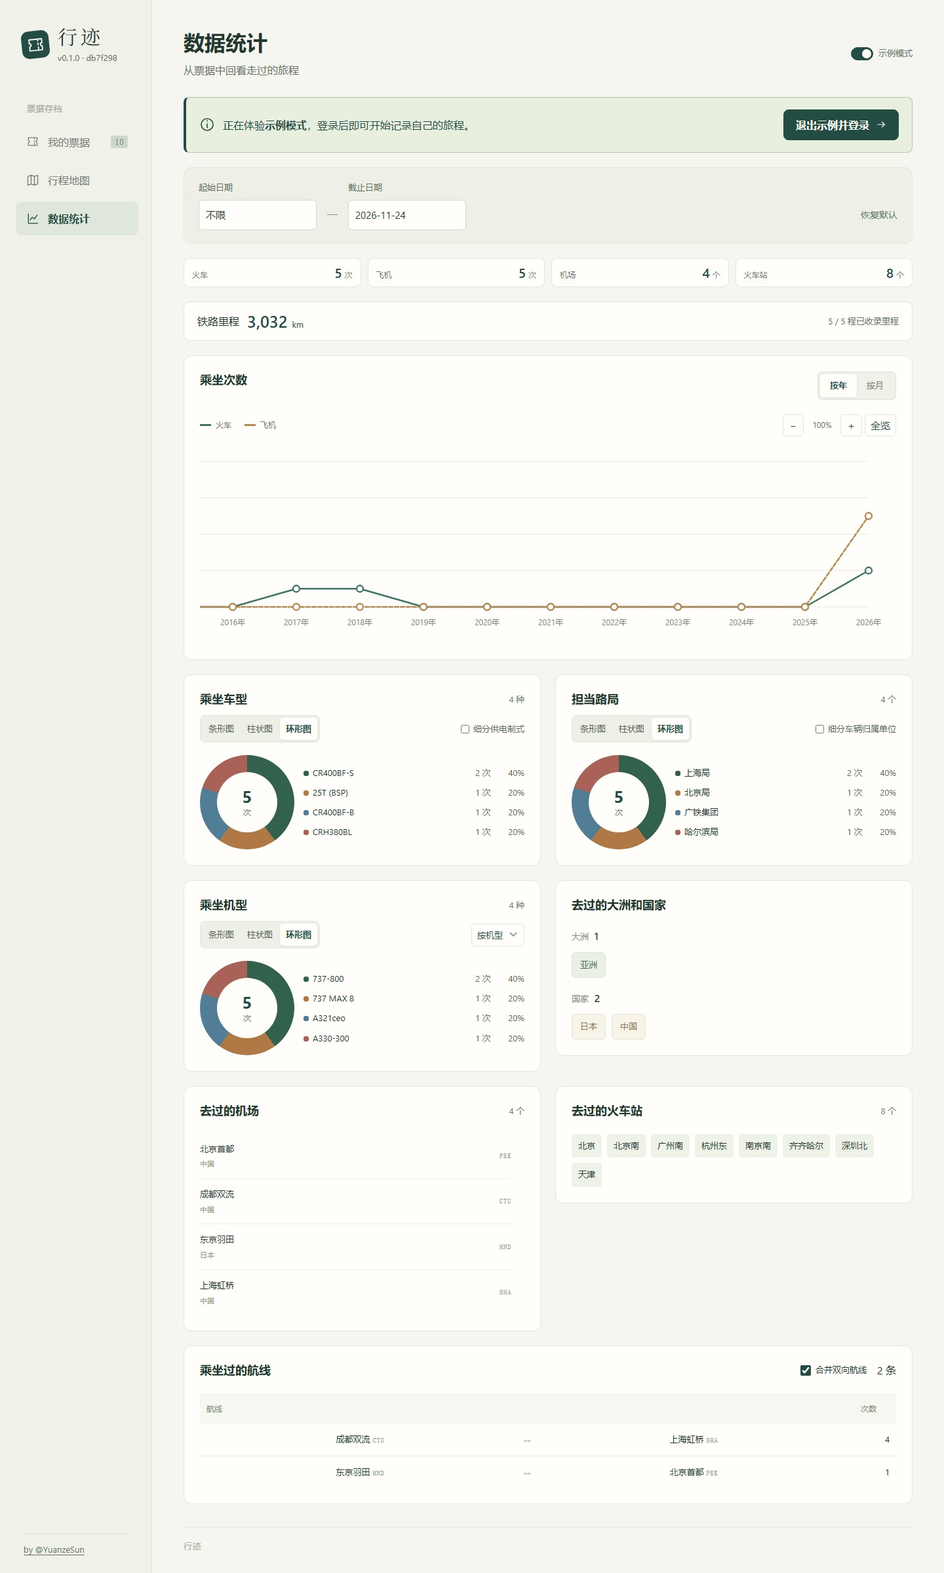
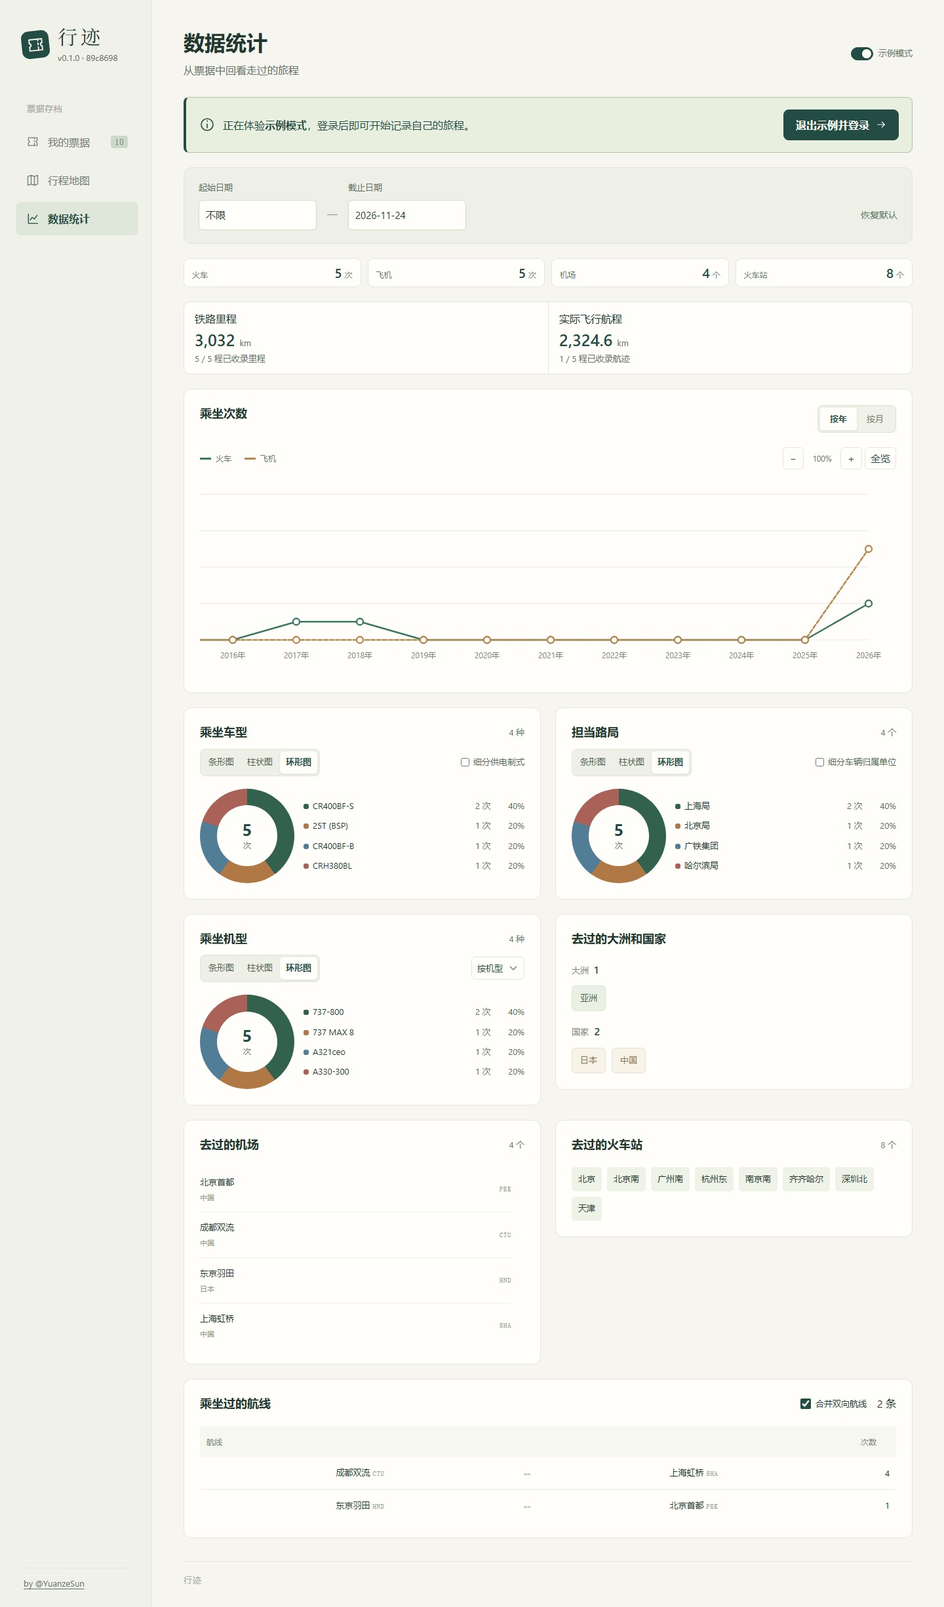
Summarize flown distance from saved flight tracks

diff --git a/src/styles.css b/src/styles.css
@@ -403,6 +403,11 @@ input::-webkit-datetime-edit-fields-wrapper{padding:0}
 .statistics-summary>div>span{font-size:12px;color:#6b796b;white-space:nowrap}
 .statistics-summary strong{display:inline-flex;align-items:baseline;gap:4px;font-size:20px;font-weight:600;line-height:1.3;color:var(--green);font-variant-numeric:tabular-nums;white-space:nowrap}
 .statistics-summary small{font-size:12px;font-weight:400;color:#7a8573}
+.statistics-mileage{display:grid;grid-template-columns:repeat(2,minmax(0,1fr));border:1px solid var(--line);border-radius:10px;background:var(--surface)}
+.statistics-mileage>div{display:grid;grid-template-columns:minmax(0,1fr);align-content:start;gap:4px;padding:12px 16px}
+.statistics-mileage>div+div{border-inline-start:1px solid var(--line)}
+.statistics-mileage strong{font-size:clamp(18px,4.8vw,25px);line-height:1.2;font-weight:600;color:var(--green);font-variant-numeric:tabular-nums;overflow-wrap:anywhere}
+.statistics-mileage small,.statistics-mileage>div>span:last-child{font-size:13px;font-weight:400;color:var(--muted)}
 .statistics-panel{background:var(--surface);border:1px solid var(--line);border-radius:12px;padding:24px;min-width:0}
 .statistics-panel>header{display:flex;justify-content:space-between;align-items:flex-start;flex-wrap:wrap;gap:16px;margin-bottom:22px}
 .statistics-panel h2{font-size:18px;font-weight:600;line-height:1.4;margin:0}
@@ -563,7 +568,7 @@ select:not([multiple]){-webkit-appearance:none;appearance:none;min-width:0;max-w
 .archive-selection-bar{display:flex;align-items:center;gap:12px;flex-wrap:wrap;margin:0 0 18px;padding:10px 12px;border:1px solid var(--line);border-radius:8px;background:#eff2e9}.archive-select-all{display:flex;align-items:center;gap:8px;cursor:pointer;min-height:32px}.archive-select-all input,.card-select input{width:18px;height:18px;margin:0;accent-color:var(--green)}.archive-selection-count{font-size:13px;color:var(--muted)}.archive-selection-actions{display:flex;align-items:center;gap:8px;flex-wrap:wrap;margin-left:auto}.archive-selection-actions .button{min-height:36px;padding:7px 11px}.card-select{display:flex;align-items:center;justify-content:center;min-width:28px;min-height:30px;cursor:pointer;flex:none}.card-top{gap:8px}.card-top .transport-tag{margin-right:auto}.ticket-card.is-selected{border-color:#60836f;box-shadow:0 0 0 1px #60836f}.archive-selection-actions .button.danger{border-color:#d5b4af}
 @media(max-width:680px){.archive-selection-actions{width:100%;display:grid;grid-template-columns:repeat(2,minmax(0,1fr));margin:0}.archive-selection-actions .button{width:100%;min-width:0}.archive-selection-bar{gap:8px 12px;padding:8px 10px}.card-top{margin-bottom:10px}}
 .map-card .map-totals{padding:8px 12px}.map-card .map-totals>span{flex-direction:row;justify-content:center;align-items:baseline;gap:6px}.map-card .map-totals strong{font-size:20px}.railgo-map-credit{position:absolute;right:12px;bottom:12px;color:#bfd2dd;font-size:11px;background:#10263ac9;padding:2px 6px;border-radius:3px;text-decoration:underline;text-underline-offset:2px}
-.rail-my-range{display:flex;gap:8px 16px;align-items:center;flex-wrap:wrap;padding:10px 12px;margin-bottom:12px;background:#e9f0e4;border-radius:7px;font-size:13px}.rail-my-range>span:last-child{margin-left:auto;color:#64765b}.rail-stops .rail-my-stop{background:#f0f5e9}.rail-stops .rail-my-stop th{border-left:3px solid #6c8d5a}.rail-stops .rail-outside-stop{color:#8b9386}.rail-stops .rail-endpoint{background:#e3edda}.statistics-mileage{display:flex;gap:12px;align-items:center;flex-wrap:wrap;padding:14px 20px;border:1px solid var(--line);border-radius:10px;background:var(--surface)}.statistics-mileage strong{font-size:25px;line-height:1.2;font-weight:600;color:var(--green);font-variant-numeric:tabular-nums}.statistics-mileage small{font-size:13px;font-weight:400}.statistics-mileage>span:last-child{margin-left:auto;font-size:13px;color:var(--muted)}.arithmetic-field{max-width:330px}.arithmetic-field strong{font-size:20px;letter-spacing:2px}.arithmetic-field input{font-variant-numeric:tabular-nums}
+.rail-my-range{display:flex;gap:8px 16px;align-items:center;flex-wrap:wrap;padding:10px 12px;margin-bottom:12px;background:#e9f0e4;border-radius:7px;font-size:13px}.rail-my-range>span:last-child{margin-left:auto;color:#64765b}.rail-stops .rail-my-stop{background:#f0f5e9}.rail-stops .rail-my-stop th{border-left:3px solid #6c8d5a}.rail-stops .rail-outside-stop{color:#8b9386}.rail-stops .rail-endpoint{background:#e3edda}.arithmetic-field{max-width:330px}.arithmetic-field strong{font-size:20px;letter-spacing:2px}.arithmetic-field input{font-variant-numeric:tabular-nums}
 .rail-full-track path{stroke:#e4bb79;stroke-width:3;stroke-dasharray:7 6}.rail-route-legend .rail-full-line:before{border-top:2px dashed #e4bb79}.rail-route-legend .rail-border:before{border-top:1px dashed #a4bac9}
 .rail-route-heading{flex-wrap:wrap}
 .rail-route-actions{display:flex;flex-wrap:wrap;align-items:center;gap:8px 12px}

diff --git a/src/flight-track-ui.js b/src/flight-track-ui.js
@@ -1,5 +1,5 @@
 import { FlightConnector } from './mcp.js';
-import { FLIGHT_TRACK_SOURCE, flightTrackRequest, readFlightTrack } from './flight-track.js';
+import { FLIGHT_TRACK_SOURCE, flightTrackDistanceKm, flightTrackRequest, readFlightTrack } from './flight-track.js';
 import { longitudeCenter, projectPoint, unwrapLongitude } from './journey-map-model.js';
 import { createMapBasemap } from './map-basemap.js';
 import { flightTrackLabelRenderer } from './flight-track-labels.js';
@@ -113,7 +113,9 @@ function mountTrackMap(frame, track, record) {
 }
 
 export function mountFlightTrack(container, record, { getKey, desktop, canSave, save }) {
-  container.innerHTML = `<div class="rail-route-heading"><h3>飞行航迹</h3><div class="rail-route-actions"><button class="button secondary small" type="button" data-flight-track-query>查询航迹</button><button class="button secondary small" type="button" data-flight-track-play hidden>播放航迹</button></div></div><p class="flight-track-status fine-print" role="status"></p><div class="flight-track-frame rail-route-frame" hidden><canvas aria-hidden="true"></canvas><svg tabindex="0" role="group" aria-label="飞行航迹图，可拖动及缩放"></svg>${detailMapControls('飞行航迹')}</div><p class="rail-route-caption" data-flight-track-source hidden><a href="${FLIGHT_TRACK_SOURCE}" target="_blank" rel="noopener noreferrer">航迹数据：飞常准</a><span></span></p>`;
+  const demo = record.sources?.some(source => source.kind === 'demo');
+  const attribution = demo ? '航迹数据：示例' : `<a href="${FLIGHT_TRACK_SOURCE}" target="_blank" rel="noopener noreferrer">航迹数据：飞常准</a>`;
+  container.innerHTML = `<div class="rail-route-heading"><h3>飞行航迹</h3><div class="rail-route-actions"><button class="button secondary small" type="button" data-flight-track-query>查询航迹</button><button class="button secondary small" type="button" data-flight-track-play hidden>播放航迹</button></div></div><p class="flight-track-status fine-print" role="status"></p><div class="flight-track-frame rail-route-frame" hidden><canvas aria-hidden="true"></canvas><svg tabindex="0" role="group" aria-label="飞行航迹图，可拖动及缩放"></svg>${detailMapControls('飞行航迹')}</div><p class="rail-route-caption" data-flight-track-source hidden>${attribution}<span></span></p>`;
   const queryButton = container.querySelector('[data-flight-track-query]'), playButton = container.querySelector('[data-flight-track-play]');
   const status = container.querySelector('[role=status]'), frame = container.querySelector('.flight-track-frame'), source = container.querySelector('[data-flight-track-source]');
   const controller = new AbortController();
@@ -129,7 +131,8 @@ export function mountFlightTrack(container, record, { getKey, desktop, canSave, 
     status.classList.add('visually-hidden');
     const [, dep, arr] = track.flightStr.split('_');
     frame.querySelector('svg').setAttribute('aria-label', `${dep} 至 ${arr}飞行航迹图，可拖动及缩放`);
-    source.querySelector('span').textContent = ` · ${dep} → ${arr} · 查询于 ${track.queriedAt.slice(0, 10)}`;
+    const distance = flightTrackDistanceKm(track).toLocaleString('zh-CN', { maximumFractionDigits: 1 });
+    source.querySelector('span').textContent = ` · ${dep} → ${arr} · 航迹约 ${distance} km${demo ? '' : ' · 查询于 ' + track.queriedAt.slice(0, 10)}`;
     map = mountTrackMap(frame, track, record);
     if (focusPlay) playButton.focus();
   }

diff --git a/src/statistics.js b/src/statistics.js
@@ -44,9 +44,14 @@ export function mountStatistics(container, records, { options = {} } = {}) {
       const value = options[key] || (key === 'dateTo' ? renderedDay : '不限');
       return `<div class="statistics-range-field"><span>${label}</span><button type="button" class="statistics-date-button" ${attr} data-stat-date="${key}" aria-label="${label}，${e(value)}" aria-haspopup="dialog">${e(value)}</button></div>`;
     };
+    const mileage = [
+      ['铁路里程', data.railMileage, data.railMileageTrips, data.rail, '程已收录里程', 3],
+      ['实际飞行航程', data.actualFlightDistance, data.actualFlightDistanceTrips, data.flight, '程已收录航迹', 1]
+    ];
     container.innerHTML = `<section class="statistics-range" aria-label="统计日期范围"><div>${rangeButton('dateFrom', '起始日期', 'data-stat-from')}<span class="statistics-range-dash">—</span>${rangeButton('dateTo', '截止日期', 'data-stat-to')}<button type="button" class="text-button" data-stat-reset aria-label="恢复默认日期" title="恢复默认日期"><span class="statistics-reset-symbol" aria-hidden="true">↺</span><span class="statistics-reset-label">恢复默认</span></button></div><p class="form-error" role="alert" ${data.error ? '' : 'hidden'}>${e(data.error)}</p></section>${data.error ? '' : `
       <section class="statistics-summary" aria-label="所选日期范围的乘坐记录">${[['火车', data.rail, '次'], ['飞机', data.flight, '次'], ['机场', data.airports.length, '个'], ['火车站', data.stations.length, '个']].map(([label, count, unit]) => `<div><span>${label}</span><strong>${count}<small>${unit}</small></strong></div>`).join('')}</section>
-      <section class="statistics-mileage" aria-label="铁路里程"><span>铁路里程</span><strong>${data.railMileageTrips ? data.railMileage.toLocaleString('zh-CN',{maximumFractionDigits:3}) : '—'} <small>km</small></strong><span>${data.railMileageTrips} / ${data.rail} 程已收录里程</span></section>
+      <section class="statistics-mileage" aria-label="里程统计">${mileage.map(([label, distance, count, total, coverage, maximumFractionDigits]) =>
+        `<div><span>${label}</span><strong>${count ? `${distance.toLocaleString('zh-CN', { maximumFractionDigits })} <small>km</small>` : '—'}</strong><span>${count} / ${total} ${coverage}</span></div>`).join('')}</section>
       <section class="statistics-panel statistics-trend"><header><h2>乘坐次数</h2><div class="statistics-period-controls"><div role="group" aria-label="统计图时间粒度">${[['year', '按年'], ['month', '按月']].map(([value, label]) => `<button data-stat-scale="${value}" aria-pressed="${options.period === value}">${label}</button>`).join('')}</div><label ${options.period === 'month' ? '' : 'hidden'}><span class="visually-hidden">月度图年份</span><select data-stat-year aria-label="月度图年份">${[...yearChoices].reverse().map(year => `<option ${options.year === year ? 'selected' : ''}>${e(year)}</option>`).join('')}</select></label></div></header>${tripChartMarkup(series,{zoom:options.chartZoom,viewportWidth:container.clientWidth || 720})}</section>
       <div class="statistics-columns">${rankingPanel('rail-models')}${rankingPanel('rail-bureaus')}</div>
       <div class="statistics-columns">${rankingPanel('aircraft')}

diff --git a/tests/statistics.test.js b/tests/statistics.test.js
@@ -6,10 +6,44 @@ import { createRecord } from '../src/model.js';
 import { journeyDate } from '../src/journey-date.js';
 import { statisticsOptions, statisticsRange, todayDate, journeyStatistics, tripSeries } from '../src/statistics-model.js';
 import { mountStatistics } from '../src/statistics.js';
+import { flightTrackRequest } from '../src/flight-track.js';
 
 const rail = extra => createRecord({ origin: '北京南', destination: '上海虹桥', departureDate: '2024-02-29', ...extra });
 const flight = extra => createRecord({ type: 'flight', template: 'air-boarding-pass', origin: 'PEK', destination: 'HND', departureDate: '2024-03-01', aircraft: 'Boeing 737-800', ...extra });
 const range = { dateFrom: '', dateTo: '2026-11-16' };
+
+test('rail mileage and flown distance share the date filter and show independent coverage', () => {
+  const base = flight({ id: 'tracked', service: 'CA123', flightDistance: '750' });
+  const tracked = createRecord({ ...base, flightTrack: {
+    flightStr: flightTrackRequest(base), queriedAt: '2024-03-02T00:00:00Z',
+    segments: [[[179, 0], [-179, 0]], [[30, 0], [31, 0]]]
+  } });
+  const rows = [
+    rail({ railMileage: '1318' }), tracked, flight({ id: 'untracked', flightDistance: '9999' }),
+    createRecord({ ...tracked, id: 'void', flightStatus: 'invalid' }),
+    createRecord({ ...tracked, id: 'deleted', deleted: true })
+  ];
+  const all = journeyStatistics(rows, range);
+  assert.equal(all.railMileage, 1318);
+  assert.equal(all.railMileageTrips, 1);
+  assert.equal(all.flight, 2);
+  assert.equal(all.actualFlightDistanceTrips, 1);
+  // These are two disconnected segments at the equator, spanning two degrees and one degree.
+  assert.ok(Math.abs(all.actualFlightDistance - 333.585) < 0.001);
+  const beforeFlight = journeyStatistics(rows, { ...range, dateTo: '2024-02-29' });
+  assert.equal(beforeFlight.actualFlightDistance, 0);
+  assert.equal(beforeFlight.actualFlightDistanceTrips, 0);
+  assert.equal(beforeFlight.railMileage, 1318);
+
+  const dom = new JSDOM('<div id="root"></div>');
+  const root = dom.window.document.querySelector('#root');
+  const unmount = mountStatistics(root, rows, { options: { ...range } });
+  const [railMetric, flightMetric] = root.querySelectorAll('.statistics-mileage > div');
+  assert.match(railMetric.textContent, /铁路里程.*1,318 km.*1 \/ 1/);
+  assert.match(flightMetric.textContent, /实际飞行航程.*333\.6 km.*1 \/ 2/);
+  unmount();
+  dom.window.close();
+});
 
 test('statistics default to an unbounded start and today, compare dates only and respect edited bounds', () => {
   assert.deepEqual(statisticsOptions({}, '2026-11-16'), { ...range, period: 'year', year: '', chartZoom:1, mergeDirections:true, railUnits:false, railPowerSupplies:false, aircraftGrouping:'model' });

diff --git a/src/statistics-model.js b/src/statistics-model.js
@@ -4,6 +4,7 @@ import { aircraftClassification } from './aircraft.js';
 import { dateInterval } from './search.js';
 import { CONTINENT_AIRPORT_CODES } from './data/airport-geography.js';
 import { isJourneyRecord } from './record-kind.js';
+import { flightTrackDistanceKm } from './flight-track.js';
 import { normalizeRailBureau, normalizeRailModel, normalizeRailPowerSupply } from './rail-details.js';
 import { railJourneyMatches, railText, isEmuModel } from './rail-journey.js';
 
@@ -59,6 +60,7 @@ export function journeyStatistics(records, input = {}, today = todayDate()) {
   const airports = new Map(), stations = new Map(), countries = new Map(), continents = new Set(), routes = new Map(), aircraft = new Map();
   const railModels = new Map(), railBureaus = new Map();
   let unknownAircraft = 0, unknownPlaces = 0, unknownRoutes = 0;
+  let actualFlightDistance = 0, actualFlightDistanceTrips = 0;
   for (const record of rows) {
     if (record.type === 'rail') {
       for (const model of railModelsForRecord(record,options)) railModels.set(model, (railModels.get(model) || 0) + 1);
@@ -78,6 +80,11 @@ export function journeyStatistics(records, input = {}, today = todayDate()) {
       if (place.continent) continents.add(place.continent);
     }
     if (record.type !== 'flight') continue;
+    const trackDistance = flightTrackDistanceKm(record.flightTrack);
+    if (trackDistance > 0) {
+      actualFlightDistance += trackDistance;
+      actualFlightDistanceTrips++;
+    }
     const classification = aircraftClassification(record.aircraft);
     if (classification) {
       const model = options.aircraftGrouping === 'series' ? classification.series : classification.label;
@@ -97,7 +104,7 @@ export function journeyStatistics(records, input = {}, today = todayDate()) {
     continents: [...continents].sort().map(code => ({ code, name: CONTINENTS[code] })),
     aircraft: ranked(aircraft),
     railMileage:Math.round(mileageTrips.reduce((sum,row)=>sum+Number(row.railMileage),0)*1000)/1000,
-    railMileageTrips:mileageTrips.length,
+    railMileageTrips: mileageTrips.length, actualFlightDistance, actualFlightDistanceTrips,
     railModels: ranked(railModels), railBureaus: ranked(railBureaus),
     routes: [...routes.values()].sort((a, b) => b.count - a.count || a.id.localeCompare(b.id)), unknownAircraft, unknownPlaces, unknownRoutes };
 }

diff --git a/tests/flight-track.test.js b/tests/flight-track.test.js
@@ -3,8 +3,9 @@ import test from 'node:test';
 import { JSDOM } from 'jsdom';
 import { indexedDB } from 'fake-indexeddb';
 import { createRecord, validateRecord } from '../src/model.js';
-import { flightTrackRequest, readFlightTrack } from '../src/flight-track.js';
+import { flightTrackDistanceKm, flightTrackRequest, readFlightTrack } from '../src/flight-track.js';
 import { journeyNetwork, networkGeometry } from '../src/journey-map-model.js';
+import { journeyStatistics } from '../src/statistics-model.js';
 import { prepareCloud } from './helpers/cloud.js';
 
 const flight = createRecord({
@@ -109,6 +110,7 @@ test('flight tracks save with a lookup in the editor or from details and can rep
     assert.deepEqual(requests, [{ name: 'getFlightTrackLine', arguments: { flightStr } }]);
     assert.deepEqual(server.records()[0].flightTrack.segments, coordinates);
     assert.equal(server.records()[0].passenger, 'TEST/PASSENGER');
+    assert.match(element('[data-flight-track-source]').textContent, /航迹约 [\d,.]+ km/);
     const svg = element('.flight-track-frame svg'), [first, second] = svg.querySelectorAll('.flight-track-highlight path');
     assert.ok(Number(svg.getAttribute('viewBox').split(' ')[2]) < 400, 'fits across the date line');
     const cityLabels = [...svg.querySelectorAll('.route-city text')].map(label => label.textContent);
@@ -184,6 +186,10 @@ test('flight tracks save with a lookup in the editor or from details and can rep
     finishTrack();
     const savedFlight = await waitFor(() => server.records().find(record => record.service === 'MF8179'));
     assert.deepEqual(savedFlight.flightTrack.segments, domesticCoordinates);
+    const mileage = journeyStatistics(server.records(), { dateTo: '2026-11-24' }, '2026-11-24');
+    assert.equal(mileage.actualFlightDistanceTrips, 2);
+    const expected = flightTrackDistanceKm({ segments: coordinates }) + flightTrackDistanceKm({ segments: domesticCoordinates });
+    assert.equal(mileage.actualFlightDistance, expected);
     assert.deepEqual(requests.slice(1), [
       { name: 'getFlightStatus', arguments: { fnum: 'MF8179', date: '2026-08-11' } },
       { name: 'getFlightTrackLine', arguments: { flightStr: domesticFlightStr } },

diff --git a/src/demo.js b/src/demo.js
@@ -6,6 +6,7 @@ import {createBoardingCode} from './bcbp.js';
 import {railCompletion,shiftRailDate} from './rail-lookup-model.js';
 import {LOOKUP_FIELDS} from './lookup-values.js';
 import {markFieldSources} from './field-sources.js';
+import {flightTrackRequest} from './flight-track.js';
 
 const localToday=()=>{const date=new Date();return `${date.getFullYear()}-${String(date.getMonth()+1).padStart(2,'0')}-${String(date.getDate()).padStart(2,'0')}`;};
 const verifiedAt='2026-11-17T00:00:00.000Z';
@@ -75,6 +76,12 @@ export function demoRecords(today=localToday()){
     }else{
       values.arrivalDate=values.actualDepartureDate=values.actualArrivalDate=values.departureDate;
       values.flightStatus='normal';
+      if (row.service === 'CA181') values.flightTrack = {
+        flightStr: flightTrackRequest(values), queriedAt: verifiedAt,
+        segments: [[[116.59, 40.08], [116.76, 40.04], [117.14, 39.97], [118.61, 39.53], [120.21, 39.51],
+          [121.67, 38.66], [123.31, 37.18], [126.1, 35.7], [129.09, 34.68], [132.5, 34.11], [135.1, 34.43],
+          [137.24, 34.65], [138.19, 34.68], [139.35, 34.92], [139.78, 35.55]]]
+      };
       values.boardingCode=createBoardingCode({passenger:values.passenger==='示例旅客' ? 'SHILI/LVKE' : values.passenger,pnr:values.pnr,origin:values.originCode,destination:values.destinationCode,carrier:values.service.slice(0,2),flightNumber:values.service.slice(2),date:values.departureDate,cabin:values.seatClass,seat:values.seat,sequence:String(42+index),status:'1',electronic:''});
       values.boardingCodeSource='generated';values.boardingLegIndex='0';values.fieldSources.boardingCode='generated';
       if (!syntheticFlight) values.sources.push({kind:'reference',label:`航班参考：${values.airline} ${values.service}，${values.origin}—${values.destination}`,at:verifiedAt});

diff --git a/src/flight-track.js b/src/flight-track.js
@@ -3,6 +3,7 @@ import { isInactiveFlight } from './flight-status.js';
 
 export const FLIGHT_TRACK_SOURCE = 'https://cmcp.variflight.com/tools/#getFlightTrackLine';
 const MAX_POINTS = 12000;
+const EARTH_MEAN_RADIUS_KM = 6371.0088;
 
 export function flightTrackRequest(record) {
   if (record.type !== 'flight' || record.deleted || isInactiveFlight(record)) throw new Error('这张机票无法查询航迹');
@@ -44,6 +45,21 @@ export function normalizeFlightTrack(record, value) {
   } catch { return undefined; }
   const segments = normalizeSegments(value.segments);
   return segments.length ? { flightStr: value.flightStr, queriedAt: new Date(value.queriedAt).toISOString(), segments } : undefined;
+}
+
+export function flightTrackDistanceKm(track) {
+  if (!track) return 0;
+  const radians = Math.PI / 180;
+  let distance = 0;
+  for (const line of track.segments) {
+    for (let index = 1; index < line.length; index++) {
+      const [fromLon, fromLat] = line[index - 1], [toLon, toLat] = line[index];
+      const arc = Math.sin((toLat - fromLat) * radians / 2) ** 2
+        + Math.cos(fromLat * radians) * Math.cos(toLat * radians) * Math.sin((toLon - fromLon) * radians / 2) ** 2;
+      distance += 2 * EARTH_MEAN_RADIUS_KM * Math.asin(Math.sqrt(Math.min(arc, 1)));
+    }
+  }
+  return distance;
 }
 
 function providerCoordinates(row, flightStr) {

diff --git a/tests/demo.test.js b/tests/demo.test.js
@@ -55,4 +55,7 @@ test('demo flights have independent boarding codes and cover the aircraft groupi
   const counts = grouping => Object.fromEntries(journeyStatistics(rows,{aircraftGrouping:grouping}).aircraft.map(({name,count})=>[name,count]));
   assert.deepEqual(counts('model'),{'737-800':2,'737 MAX 8':1,A321ceo:1,'A330-300':1});
   assert.deepEqual(counts('series'),{'737':3,A321:1,A330:1});
+  const mileage = journeyStatistics(rows, { dateTo: '2026-11-17' }, '2026-11-17');
+  assert.equal(mileage.actualFlightDistanceTrips, 1);
+  assert.ok(mileage.actualFlightDistance > 2000);
 });

diff --git a/docs/statistics.md b/docs/statistics.md
@@ -20,7 +20,7 @@ OPEN 票、无效机票保留在票夹并在登机牌主券和副券上标识，
 - 去过的大洲、国家、机场和火车站。按记录的起终点统计，不推断经停、实际入境或完整旅行足迹。无法确认身份的端点暂不计入。机场列表与按站名长度排列的火车站标签均限制高度并支持滚动；火车站只显示名称，电报码留在内部匹配和存储使用。
 - 航线按具体机场配对，默认合并双向，可关闭“合并双向航线”分别统计 A→B 与 B→A。同一城市的不同机场分别统计；切换口径不改变乘坐次数等其他统计，也不修改票据。
 
-铁路参考里程只合计所选日期内已收录里程的有效火车行程，同时显示收录覆盖数。未填写里程的行程不作为零公里参与合计；未加入飞机里程、花费或其他扩展指标。
+铁路里程与实际飞行航程都按筛选日期汇总，并各自显示资料覆盖数。铁路使用票据上已收录的里程。飞机使用已保存的航迹，将各段内相邻坐标之间的距离相加。航迹的覆盖范围决定了可计算的距离，机场间的参考距离单独保存在票据上。
 
 ## 地理归属
 
